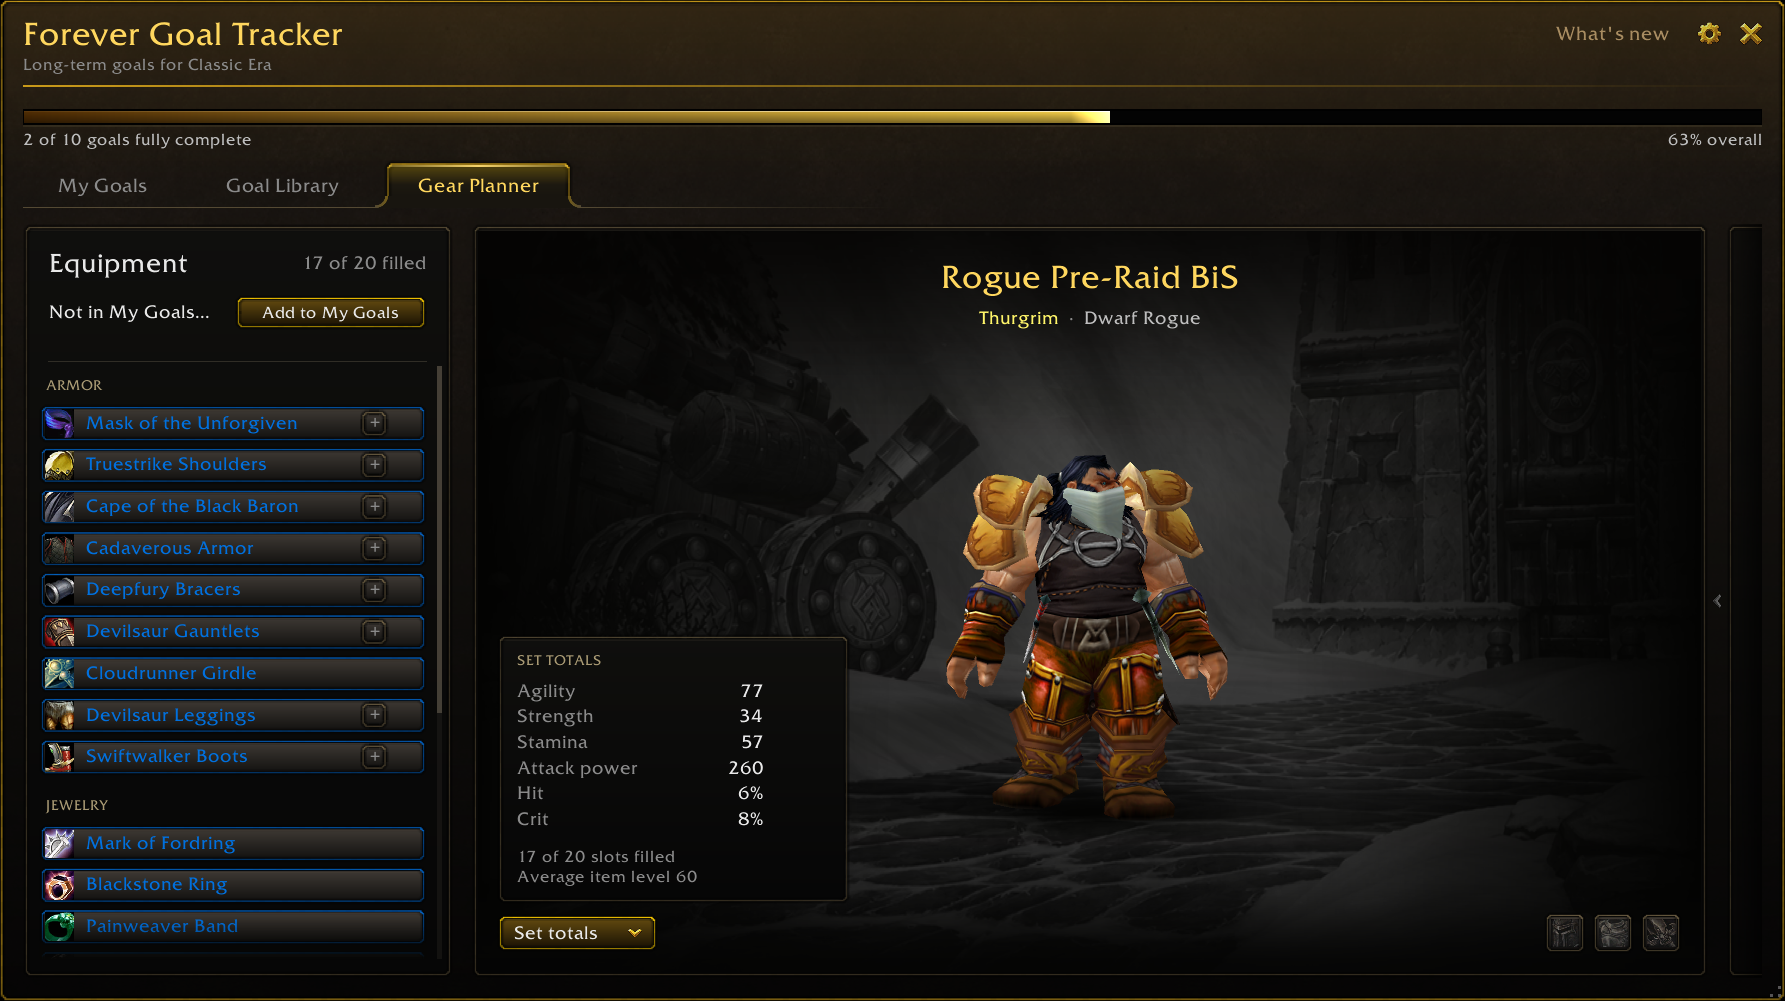
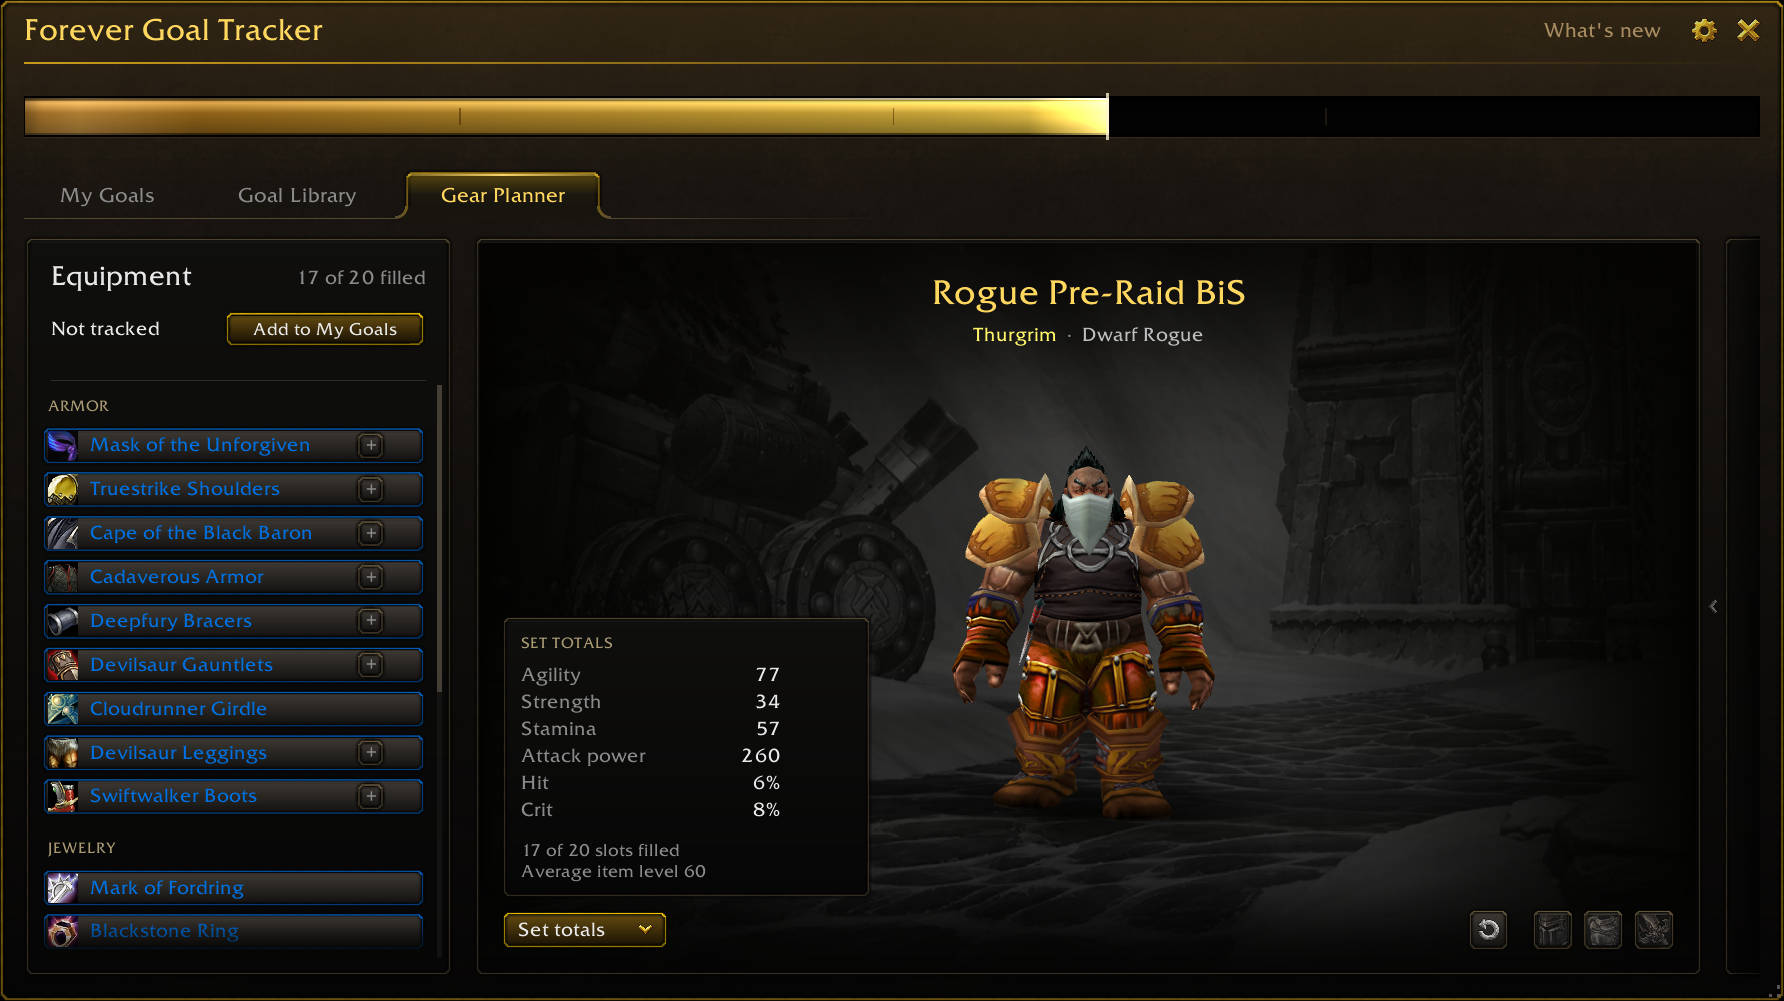
Gallery: eleven shots (map shot dropped), numbers forced on, Hints open in the links shot
The map only draws explored zone areas and the test character is low level, so the map shot is
left out for now. First pass of the Era retakes included; they are retaken after these changes.

diff --git a/tools/shots.py b/tools/shots.py
@@ -12,11 +12,11 @@ Needs Pillow (Mac: pip3 install pillow; PC: pip install --target tools/.py pillo
 import glob, os, sys
 
 # same order as FGT.SHOTS in Core.lua (the order to upload them in)
-NAMES = ["01-my-goals", "02-wolfsbane", "03-gear-planner", "04-materials", "05-map-view",
-         "06-links-and-hints", "07-library-filters", "08-new-and-updated", "09-epic-mounts",
-         "10-find-your-next-goal", "11-suggestions", "12-settings"]
+NAMES = ["01-my-goals", "02-wolfsbane", "03-gear-planner", "04-materials", "05-links-and-hints",
+         "06-library-filters", "07-new-and-updated", "08-epic-mounts", "09-find-your-next-goal",
+         "10-suggestions", "11-settings"]
 # about Forever-only content (`forever = true` in FGT.SHOTS): not retaken on Classic Era
-FOREVER_ONLY = ["02-wolfsbane", "08-new-and-updated", "10-find-your-next-goal"]
+FOREVER_ONLY = ["02-wolfsbane", "07-new-and-updated", "09-find-your-next-goal"]
 ERA = "--era" in sys.argv
 if ERA:
     NAMES = [n for n in NAMES if n not in FOREVER_ONLY]

diff --git a/tools/check.py b/tools/check.py
@@ -651,7 +651,7 @@ if ok_all:
         'S("demo off"); assert(not D.active.wolfsbane, "demo off puts Wolfsbane back"); '
         'S("demo 12"); assert(D.active.mount_dreadsteed and D.progress.mount_dreadsteed and D.progress.mount_dreadsteed[4] and not D.progress.mount_dreadsteed[5], "scene 12 stages the Dreadsteed four steps in, the Gorzeeki step next"); '
         'S("demo off"); assert(not D.active.mount_dreadsteed, "demo off puts the Dreadsteed back"); '
-        'assert(#F.SHOTS == 12, "twelve gallery shots"); '
+        'assert(#F.SHOTS == 11, "eleven gallery shots"); '
         'local forever = 0; for _, s in ipairs(F.SHOTS) do if s.forever then forever = forever + 1 end end; '
         'assert(forever == 3, "Wolfsbane, New and Updated and Embrace of the Viper are the Forever-only shots"); '
         'S("demo 13"); local key = "Demo Dwarf Rogue-Demo"; '

diff --git a/reports/CurseForge-gallery-next.md b/reports/CurseForge-gallery-next.md
@@ -1,6 +1,6 @@
 # Gallery plan for the next release (version to confirm)
 
-Karl's call (2026-11-02): a fresh pass on the screenshot scenes. Twelve shots, in upload order, each one answering
+Karl's call (2026-11-02): a fresh pass on the screenshot scenes. Eleven shots, in upload order, each one answering
 a question a new Forever player has. Nothing here has been captured yet.
 
 ## Decisions
@@ -13,7 +13,7 @@ a question a new Forever player has. Nothing here has been captured yet.
 - **Window size stays** at 1785 x 1000. At 820 pixels wide the text still reads.
 - **Suggestions shot:** Raiding, PvP and The Grind picked, so the six rows show a mix.
 
-## The twelve shots
+## The eleven shots
 
 | File | Scene | Retake on | Title | Description |
 |---|---|---|---|---|
@@ -21,14 +21,13 @@ a question a new Forever player has. Nothing here has been captured yet.
 | `02-wolfsbane.png` | 11 | **Forever** | Chase Forever's new goals | Wolfsbane is a Forever quest weapon for Horde Paladins. Follow its quest chain, with light and embers on the banner. |
 | `03-gear-planner.png` | 13 | Era | Plan your gear, slot by slot | Pick items with filters, see where each one drops, add enchants and preview the set on your race's backdrop. |
 | `04-materials.png` | 9 | Era | Know what you still need | See the materials and tokens a goal still needs, counted across your characters. |
-| `05-map-view.png` | 12 | Era | Find your next step on the map | See the zone map and a pin for the person your next step needs. |
-| `06-links-and-hints.png` | 4 | Era | Guides that link everything | Items, quests and NPCs link in the guide. Fold the goals list to give the guide more room. |
-| `07-library-filters.png` | 10 | Era | Browse every goal | Filter by class, faction or category. Sort armor sets by progression. |
-| `08-new-and-updated.png` | 2 | **Forever** | See what's new in Forever | Blue labels and the New & Updated filter show Forever's additions and changes. |
-| `09-epic-mounts.png` | 3 | Era | Track the mounts you want | Pick which racial mounts to follow and see each mount's steps. |
-| `10-find-your-next-goal.png` | 8 | **Forever** | Never run out of things to chase | Find your next goal suggests goals for your character and skips the ones you already track. |
-| `11-suggestions.png` | 6 | Era | Goals picked for you | Suggestions follow your character and interests. Add them together or choose individual goals. |
-| `12-settings.png` | 1 + settings | Era | Make it yours | Adjust image effects, sounds, alerts, map pins and window options. |
+| `05-links-and-hints.png` | 4 | Era | Guides that link everything | Items, quests and NPCs link in the guide, and Hints sit under the steps. Fold the goals list to give the guide more room. |
+| `06-library-filters.png` | 10 | Era | Browse every goal | Filter by class, faction or category. Sort armor sets by progression. |
+| `07-new-and-updated.png` | 2 | **Forever** | See what's new in Forever | Blue labels and the New & Updated filter show Forever's additions and changes. |
+| `08-epic-mounts.png` | 3 | Era | Track the mounts you want | Pick which racial mounts to follow and see each mount's steps. |
+| `09-find-your-next-goal.png` | 8 | **Forever** | Never run out of things to chase | Find your next goal suggests goals for your character and skips the ones you already track. |
+| `10-suggestions.png` | 6 | Era | Goals picked for you | Suggestions follow your character and interests. Add them together or choose individual goals. |
+| `11-settings.png` | 1 + settings | Era | Make it yours | Adjust image effects, sounds, alerts, map pins and window options. |
 
 The three Forever shots were last taken on the 2.15.0 window (old "Tips" label, no Gear Planner tab). Retake them on live
 Forever after November 4.
@@ -36,15 +35,20 @@ Forever after November 4.
 ## What changed in the code
 
 - `FGT.SHOTS` in `Core.lua` and `NAMES` / `FOREVER_ONLY` in `tools/shots.py` use the new order and file names.
-- `Screenshots/` files were renamed to match; the three Forever shots keep their old pictures until retaken. `10-welcome.png` is removed.
+- The map shot is **not in the gallery**: the map only draws the zone areas a character has explored, and Karl's character is low
+  level, so it comes out empty. Scene 12 stays for `/goals demo 12`. Revisit with a character that has explored a zone.
+- The overall bar's numbers are forced on while shots are taken (they otherwise show only on hover or just after progress moves),
+  so every shot has them. The setting is put back afterwards.
+- Scene 4 opens the goal's Hints (`hints = true`), so the links shot is not half empty.
 - Scene 6 (suggestions) picks Raiding, PvP and The Grind.
+- The welcome interests screen and the Steamwheedle, artwork, across-characters and Needed-for ideas were dropped.
 
 ## How to capture (Classic Era, in game)
 
 1. `/reload`, size the window the same as before (1785 x 1000), close other windows.
 2. If the Gear Planner shot comes out with blank gear, run `/goals demo 13`, wait until the character is dressed, then `/goals demo off`.
-3. Run `/goals shots era`. It takes the nine Era shots in one go. To retake one, run `/goals shots 05` and then `python tools/shots.py --only 05`.
+3. Run `/goals shots era`. It takes the eight Era shots in one go. To retake one, run `/goals shots 05` and then `python tools/shots.py --only 05`.
 4. Run `python tools/shots.py --era` in the repo. It crops each shot and writes `Screenshots/NN-name.png`, leaving the three Forever shots as they are.
 5. Review a contact sheet and each full-size image. Then upload in this order with the titles above.
 
-On live Forever, `/goals shots` takes all twelve.
+On live Forever, `/goals shots` takes all eleven.

diff --git a/reports/Forever-launch-checklist-2026-11-04.md b/reports/Forever-launch-checklist-2026-11-04.md
@@ -36,8 +36,8 @@ Without this step a Skyborne player gets the Orc backdrop (unknown race keys fal
 
 ## 5. Gallery and store page
 
-- The three Forever-only shots (`02-wolfsbane`, `08-new-and-updated`, `10-find-your-next-goal`) were taken on the 2.15.0 window and lack the Gear Planner tab. Retake them on Forever with `/goals shots` (all 12) or one at a time with `/goals shots 02`, then `python tools/shots.py --only 02`.
-- `09-epic-mounts` on Era shows the Skyborne row with a blue NEW label; on Forever that is now correct.
+- The three Forever-only shots (`02-wolfsbane`, `07-new-and-updated`, `09-find-your-next-goal`) were taken on the 2.15.0 window and lack the Gear Planner tab. Retake them on Forever with `/goals shots` (all 11) or one at a time with `/goals shots 02`, then `python tools/shots.py --only 02`.
+- `08-epic-mounts` on Era shows the Skyborne row with a blue NEW label; on Forever that is now correct.
 - Update the CurseForge description if Forever behavior changed what it should say about Forever support (the 2.16.0 text says Forever is unconfirmed).
 
 ## 6. Data checks that were waiting for launch
